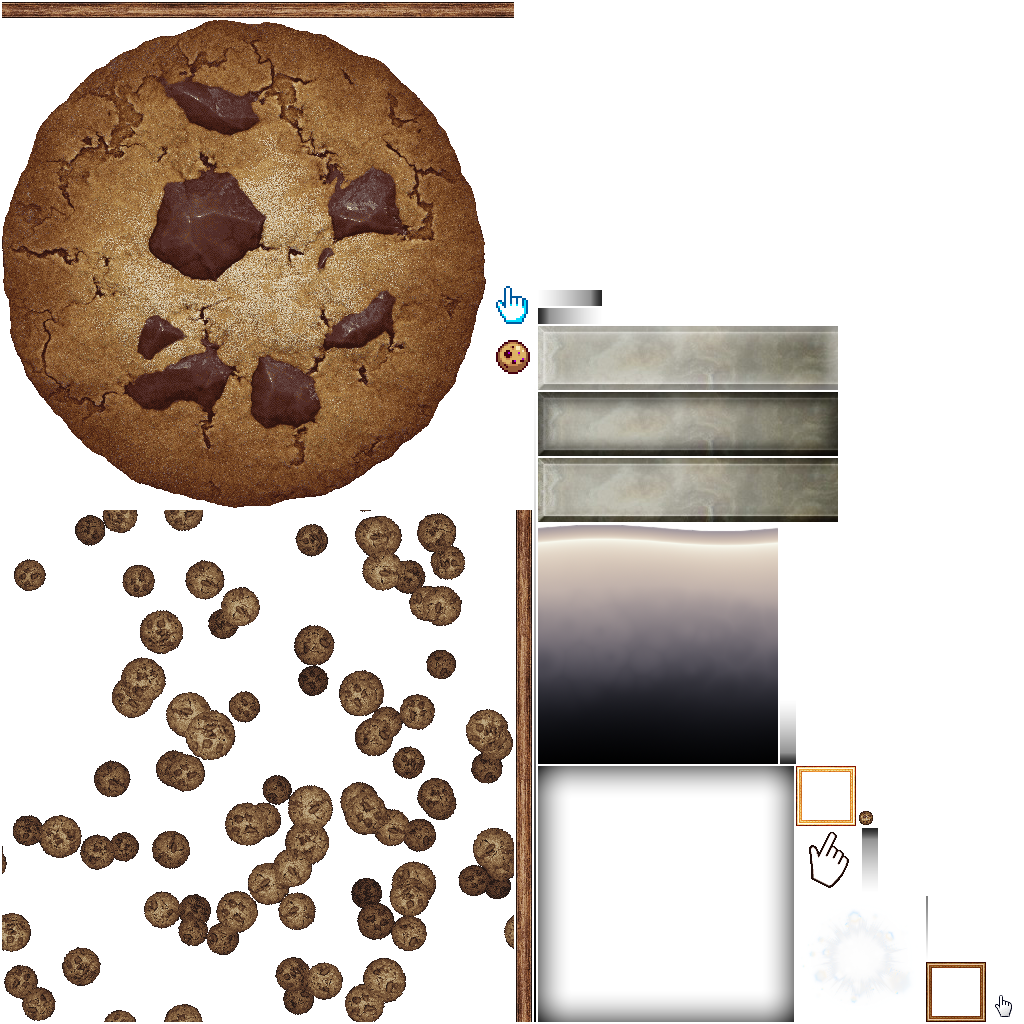
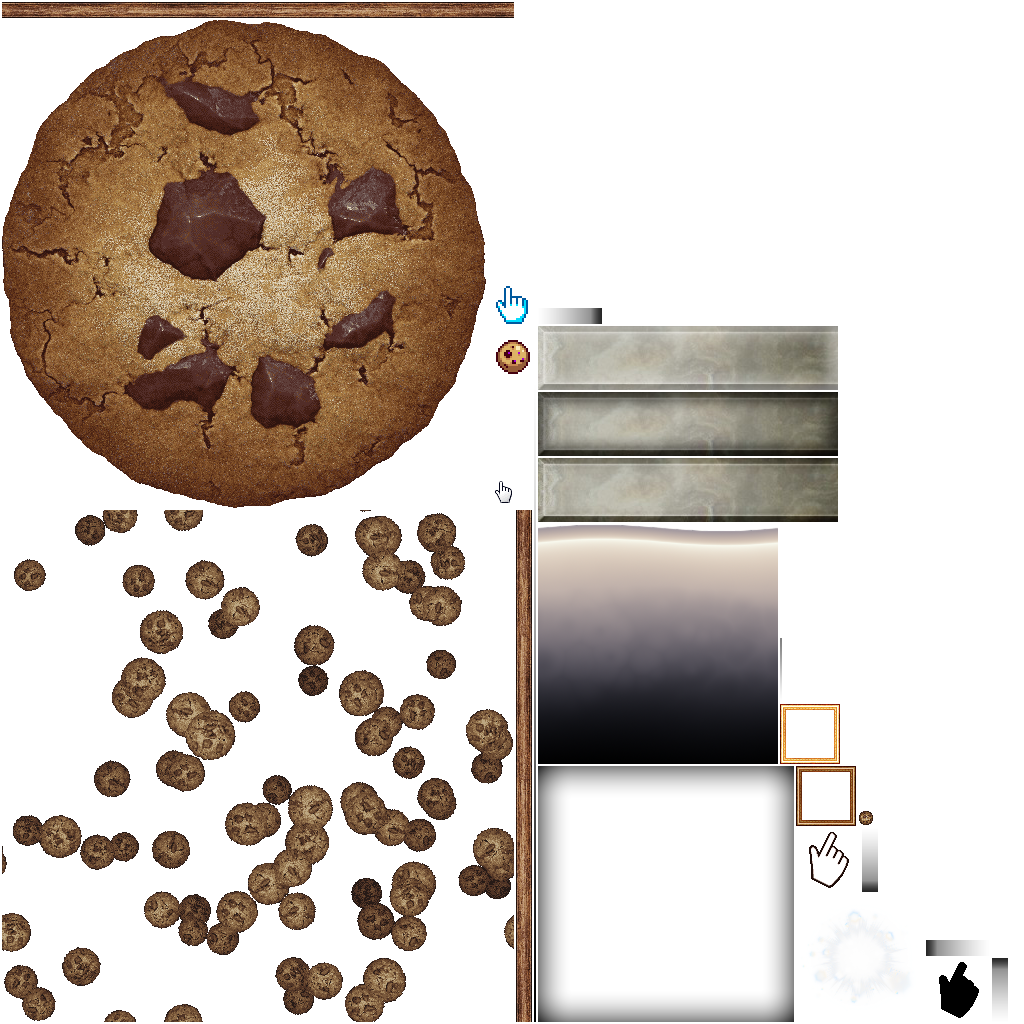
GeneratorButton refactoring

diff --git a/cookies/src/main/java/com/github/maximtereshchenko/games/cookies/GeneratorIcon.java b/cookies/src/main/java/com/github/maximtereshchenko/games/cookies/GeneratorIcon.java
@@ -1,16 +1,17 @@
 package com.github.maximtereshchenko.games.cookies;
 
-import com.badlogic.gdx.graphics.Color;
 import com.badlogic.gdx.scenes.scene2d.actions.Actions;
 import com.badlogic.gdx.scenes.scene2d.ui.Image;
 import com.badlogic.gdx.scenes.scene2d.ui.Skin;
+import com.badlogic.gdx.scenes.scene2d.ui.Stack;
 import com.badlogic.gdx.scenes.scene2d.utils.Drawable;
 import com.github.maximtereshchenko.games.common.event.EventBus;
 import com.github.maximtereshchenko.games.common.event.Subscriber;
 
-final class GeneratorIcon extends Image implements Subscriber<Event> {
+final class GeneratorIcon extends Stack implements Subscriber<Event> {
 
-    private final Style style;
+    private final Image disabled;
+    private final Image enabled;
     private final Generator generator;
 
     GeneratorIcon(
@@ -18,11 +19,13 @@ final class GeneratorIcon extends Image implements Subscriber<Event> {
         Generator generator,
         EventBus<Event> eventBus
     ) {
-        var iconStyle = skin.get(generator.name(), Style.class);
-        super(iconStyle.drawable);
-        this.style = iconStyle;
+        var style = skin.get(generator.name(), Style.class);
+        this.disabled = new Image(style.disabled);
+        this.enabled = new Image(style.enabled);
         this.generator = generator;
-        setColor(style.disabledColor);
+        enabled.addAction(Actions.fadeOut(0));
+        add(disabled);
+        add(enabled);
         eventBus.subscribe(this);
     }
 
@@ -32,14 +35,15 @@ final class GeneratorIcon extends Image implements Subscriber<Event> {
             event instanceof GeneratorUnlocked generatorUnlocked &&
             generatorUnlocked.value().equals(generator)
         ) {
-            addAction(Actions.color(style.enabledColor, 0.5f));
+            var duration = 0.5f;
+            disabled.addAction(Actions.fadeOut(duration));
+            enabled.addAction(Actions.fadeIn(duration));
         }
     }
 
     private static final class Style {
 
-        Drawable drawable;
-        Color enabledColor;
-        Color disabledColor;
+        Drawable enabled;
+        Drawable disabled;
     }
 }

diff --git a/cookies/src/main/java/com/github/maximtereshchenko/games/cookies/GeneratorDetailsPanel.java b/cookies/src/main/java/com/github/maximtereshchenko/games/cookies/GeneratorDetailsPanel.java
@@ -1,12 +1,15 @@
 package com.github.maximtereshchenko.games.cookies;
 
-import com.badlogic.gdx.scenes.scene2d.ui.Skin;
-import com.badlogic.gdx.scenes.scene2d.ui.Table;
-import com.badlogic.gdx.scenes.scene2d.ui.Value;
+import com.badlogic.gdx.scenes.scene2d.ui.*;
+import com.badlogic.gdx.scenes.scene2d.utils.Drawable;
 import com.badlogic.gdx.utils.I18NBundle;
 import com.github.maximtereshchenko.games.common.event.EventBus;
 
 final class GeneratorDetailsPanel extends Table {
+
+    private final Label enabledCookiesLabel;
+    private final Label disabledCookiesLabel;
+    private final Cell<?> cell;
 
     GeneratorDetailsPanel(
         Skin skin,
@@ -14,16 +17,38 @@ final class GeneratorDetailsPanel extends Table {
         Generator generator,
         EventBus<Event> eventBus
     ) {
+        this.enabledCookiesLabel = new Label(
+            "15",
+            skin,
+            "label_generatorCookies"
+        );
+        this.disabledCookiesLabel = new Label(
+            "15",
+            skin,
+            "label_generatorCookies_disabled"
+        );
         add(new GeneratorNameLabel(skin, bundle, generator, eventBus))
             .colspan(2)
             .left()
             .padBottom(4)
             .row();
-        add(new SmallCookieIcon(skin, generator, eventBus))
+        add(new Image(skin.get(Style.class).icon))
             .width(Value.prefWidth)
             .padTop(2);
-        add(new GeneratorCookiesLabel(skin, generator, eventBus))
-            .expandX()
-            .left();
+        this.cell = this.add().expandX().left();
+        disable();
+    }
+
+    void enable() {
+        cell.setActor(enabledCookiesLabel);
+    }
+
+    void disable() {
+        cell.setActor(disabledCookiesLabel);
+    }
+
+    private static final class Style {
+
+        Drawable icon;
     }
 }

diff --git a/cookies/src/main/java/com/github/maximtereshchenko/games/cookies/GeneratorNameLabel.java b/cookies/src/main/java/com/github/maximtereshchenko/games/cookies/GeneratorNameLabel.java
@@ -1,7 +1,5 @@
 package com.github.maximtereshchenko.games.cookies;
 
-import com.badlogic.gdx.graphics.Color;
-import com.badlogic.gdx.graphics.g2d.BitmapFont;
 import com.badlogic.gdx.scenes.scene2d.ui.Label;
 import com.badlogic.gdx.scenes.scene2d.ui.Skin;
 import com.badlogic.gdx.utils.I18NBundle;
@@ -10,7 +8,6 @@ import com.github.maximtereshchenko.games.common.event.Subscriber;
 
 final class GeneratorNameLabel extends Label implements Subscriber<Event> {
 
-    private final Style style;
     private final I18NBundle bundle;
     private final Generator generator;
 
@@ -20,15 +17,11 @@ final class GeneratorNameLabel extends Label implements Subscriber<Event> {
         Generator generator,
         EventBus<Event> eventBus
     ) {
-        var labelStyle = skin.get(generator.name(), Style.class);
         super(
-            "???",
-            new LabelStyle(
-                labelStyle.font,
-                labelStyle.disabledFontColor
-            )
+            bundle.get("generators.locked.name"),
+            skin,
+            "label_generatorName_" + generator
         );
-        this.style = labelStyle;
         this.bundle = bundle;
         this.generator = generator;
         eventBus.subscribe(this);
@@ -40,15 +33,7 @@ final class GeneratorNameLabel extends Label implements Subscriber<Event> {
             event instanceof GeneratorUnlocked generatorUnlocked &&
             generatorUnlocked.value().equals(generator)
         ) {
-            setStyle(new LabelStyle(style.font, style.enabledFontColor));
             setText(bundle.get("generators.%s.name".formatted(generator)));
         }
-    }
-
-    private static final class Style {
-
-        BitmapFont font;
-        Color enabledFontColor;
-        Color disabledFontColor;
     }
 }

diff --git a/cookies/src/main/java/com/github/maximtereshchenko/games/cookies/GeneratorButton.java b/cookies/src/main/java/com/github/maximtereshchenko/games/cookies/GeneratorButton.java
@@ -1,5 +1,6 @@
 package com.github.maximtereshchenko.games.cookies;
 
+import com.badlogic.gdx.graphics.Color;
 import com.badlogic.gdx.scenes.scene2d.ui.Button;
 import com.badlogic.gdx.scenes.scene2d.ui.Label;
 import com.badlogic.gdx.scenes.scene2d.ui.Skin;
@@ -9,6 +10,7 @@ import com.github.maximtereshchenko.games.common.event.Subscriber;
 
 final class GeneratorButton extends Button implements Subscriber<Event> {
 
+    private final Style style;
     private final Generator generator;
 
     GeneratorButton(
@@ -17,7 +19,9 @@ final class GeneratorButton extends Button implements Subscriber<Event> {
         Generator generator,
         EventBus<Event> eventBus
     ) {
-        super(skin, "button_generator_0");
+        var buttonStyle = skin.get(Style.class);
+        super(buttonStyle);
+        this.style = buttonStyle;
         this.generator = generator;
         setDisabled(true);
         add(new GeneratorIcon(skin, generator, eventBus));
@@ -36,5 +40,24 @@ final class GeneratorButton extends Button implements Subscriber<Event> {
         ) {
             setDisabled(false);
         }
+    }
+
+    @Override
+    public void setDisabled(boolean isDisabled) {
+        super.setDisabled(isDisabled);
+        setColor(color(isDisabled));
+    }
+
+    private Color color(boolean isDisabled) {
+        if (isDisabled) {
+            return style.disabledColor;
+        }
+        return style.enabledColor;
+    }
+
+    private static final class Style extends ButtonStyle {
+
+        Color enabledColor;
+        Color disabledColor;
     }
 }
